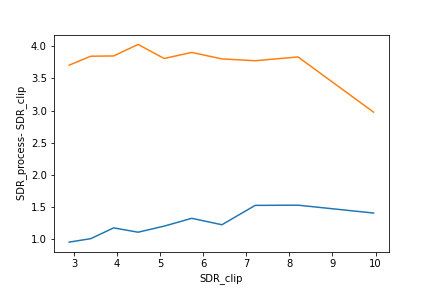
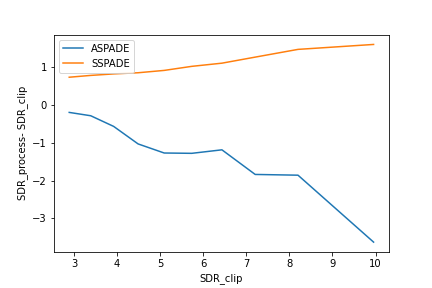
final commit

diff --git a/python/audioDeclipping.py b/python/audioDeclipping.py
@@ -24,6 +24,16 @@ plt.legend(("x","xhat","y"))
 plt.show()
 plt.savefig("fig1.png")
 
+clip,process = Declipper.sdr_study("../Sounds/double_bass.wav",
+                                    'ASPADE', A,
+                                    k_init=100,
+                                    ptiles=np.linspace(0,30,11),
+                                    iter_max=500)
+clip2,process2 = Declipper.sdr_study("../Sounds/double_bass.wav",
+                                    'SSPADE', D,
+                                    k_init = 100,
+                                    ptiles=np.linspace(0,30,11),
+                                    iter_max=500)
 
 #Figure 2
  

diff --git a/audioDeclipping.tex b/audioDeclipping.tex
@@ -238,7 +238,7 @@ The quality measurement is done with the Signal-to-Distortion-Ratio \cite{kitic_
 \begin{figure*}
   \centering
  \includegraphics[width=\textwidth]{fig/Figure_2.png}
- \caption{Exemple of reconstruction using A-SPADE.}
+ \caption{Example of reconstruction using A-SPADE.}
  \label{fig:plot}
 \end{figure*}
 \begin{figure*}
